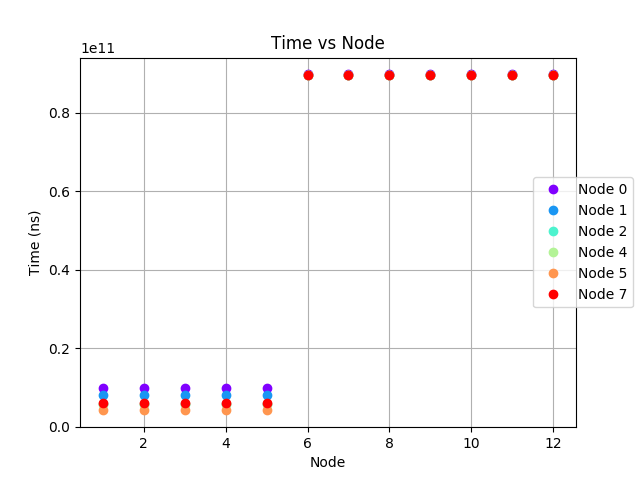
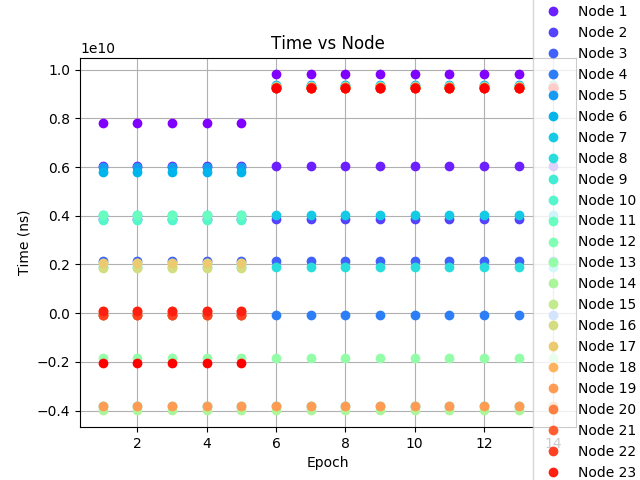
V2.1.0 First Working Version 	- Packets are being lost

diff --git a/Analysis/uP_TimingAnalysis.py b/Analysis/uP_TimingAnalysis.py
@@ -53,6 +53,7 @@ def plot_timing_diagram(node_data):
     plt.legend()
     plt.grid()
     plt.savefig(plotDir + "Time_vs_Epoch.png")
+
     plt.clf()
 
 def plot_epoch_start(node_data):
@@ -61,9 +62,6 @@ def plot_epoch_start(node_data):
     for node in node_data:
         epochs = [x[1] for x in node_data[node]]
         nanoseconds = [x[0] for x in node_data[node]]
-        
-
-
     dataset = []
     maxEpoch = max(epochs) # should be 15
 
@@ -100,13 +98,28 @@ def plot_epoch_start(node_data):
         epoch = [x['epoch'] for x in timesets[node]]
         plt.plot(epoch, time, 'o', label="Node " + str(node), color=colours[i])
 
-    plt.xlabel("Node")
+    plt.xlabel("Epoch")
     plt.ylabel("Time (ns)")
     plt.title("Time vs Node")
     plt.legend(loc='center left', bbox_to_anchor=(0.9, 0.5))
     plt.grid()
     plt.savefig(plotDir + "Node Timings.png")
     plt.clf()
+
+    # zoom in on the 6:end epochs
+    for i,node in enumerate(timesets):
+        time = [x['time'] for x in timesets[node] if x['epoch'] > 5]
+        epoch = [x['epoch'] for x in timesets[node] if x['epoch'] > 5]
+        plt.plot(epoch, time, 'o', label="Node " + str(node), color=colours[i])
+
+    plt.xlabel("Epoch")
+    plt.ylabel("Time (ns)")
+    plt.title("Time vs Node")
+    plt.legend(loc='center left', bbox_to_anchor=(0.9, 0.5))
+    plt.grid()
+    plt.savefig(plotDir + "Node Timings Zoomed.png")
+    plt.clf()
+    
 
 if __name__ == "__main__":
     if len(sys.argv) != 2:

diff --git a/SimpleRoutingTree.h b/SimpleRoutingTree.h
@@ -10,7 +10,6 @@ enum{
 	AM_MAXMSG=24,
 	AM_AVGMSG=25,
 	AM_ACKMSG=26,
-	SEND_CHECK_MILLIS=70000,
 	MAX_DEPTH=200,
 	EPOCH_PERIOD_MILLI= 40*1024,
 	MAX_STEP= 130,
